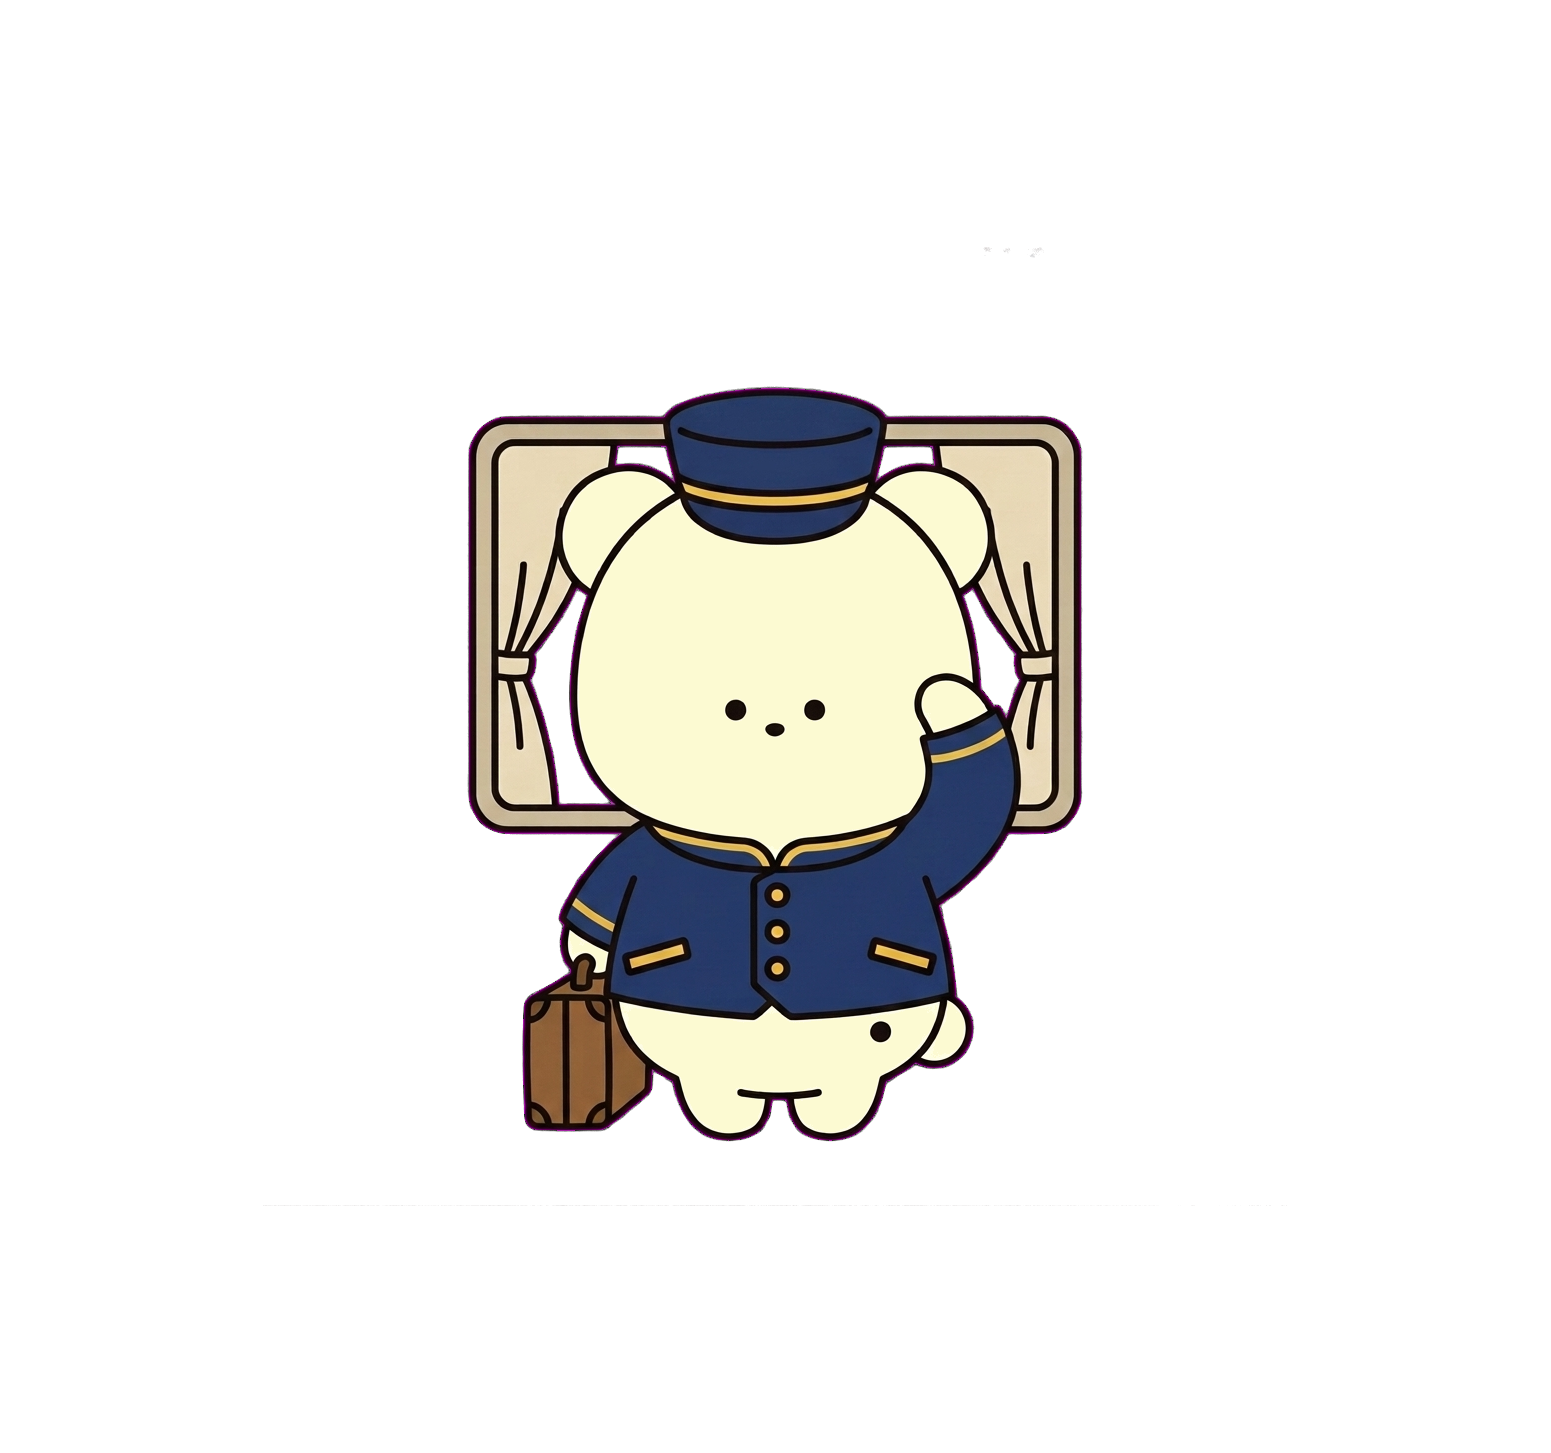
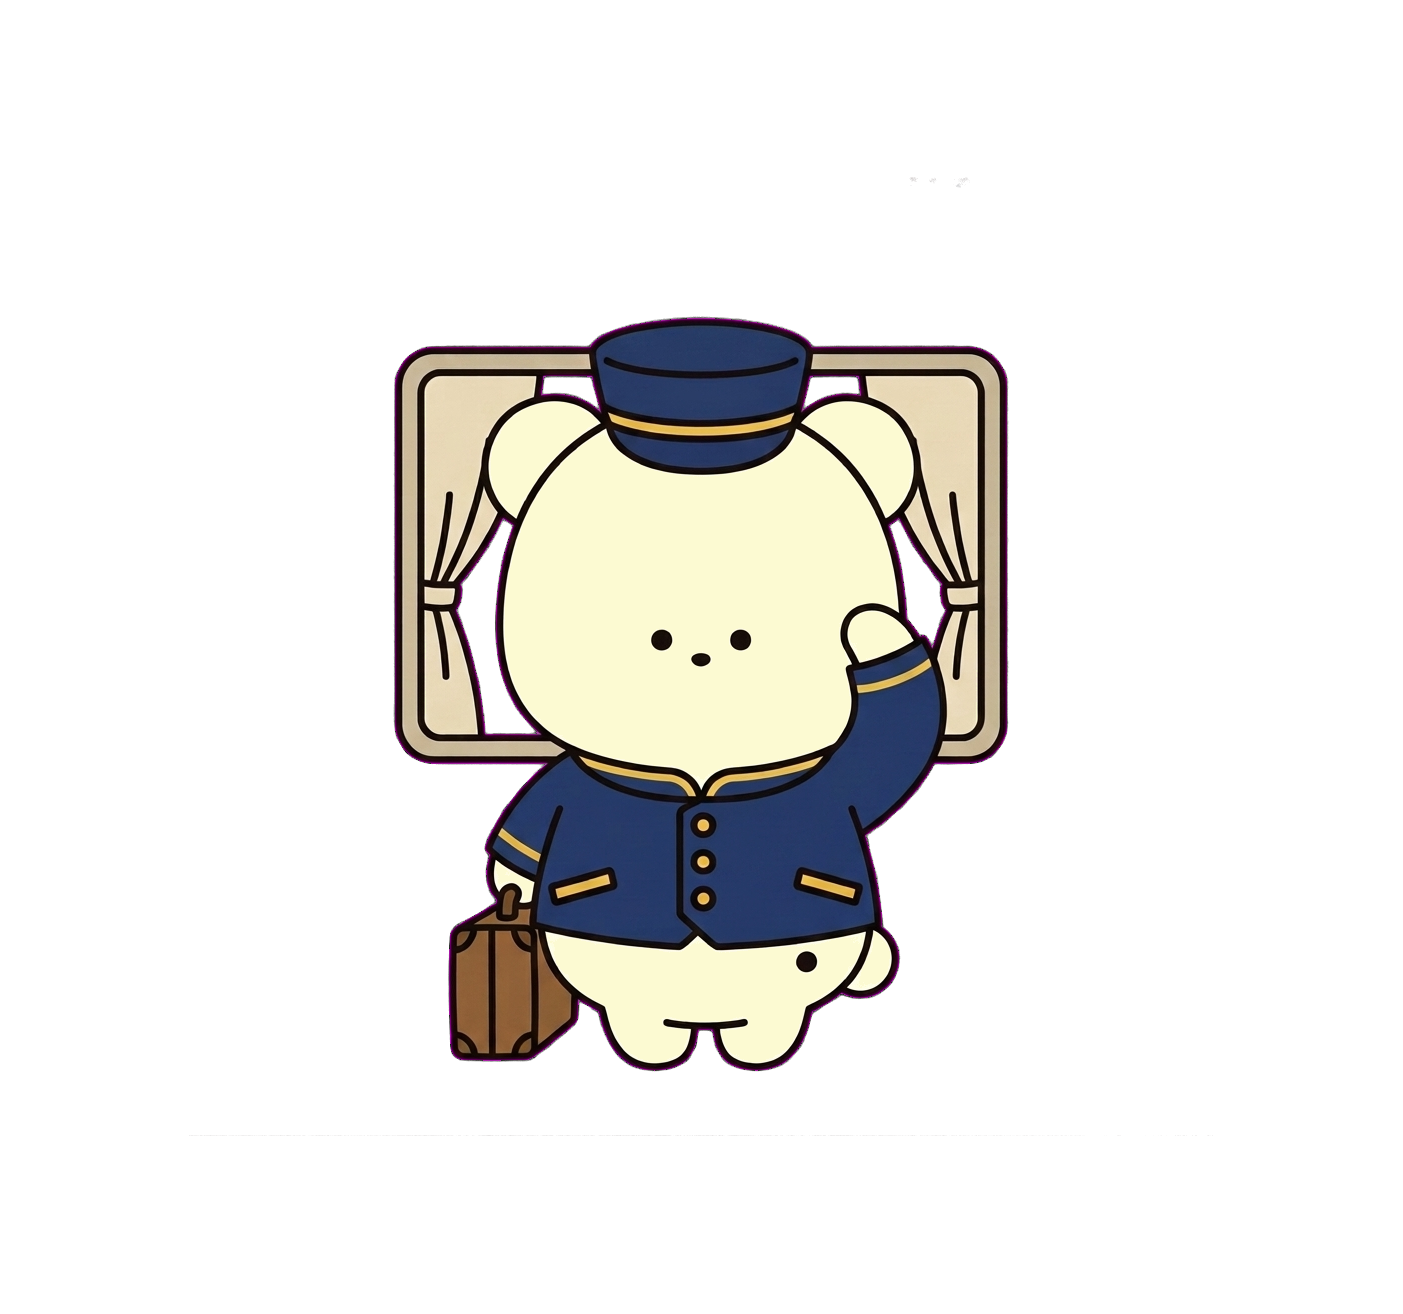
fix(vanished-jobs-archive): ひとことを1行固定に / 052・063を拡大 / 104・105を描き直し
- ひとこと: 字間を詰めて1行に収める（詰めきれない分だけ文字を縮小。英語の
  長文など縮めすぎになる場合は従来どおり折り返す）。022・053の2行化を解消。
- 052 プルマンポーター / 063 忍者: 絵はそのままに透明キャンバスの余白を詰め、
  カード上の見た目を1回り大きく（content比 0.66->0.73 / 0.64->0.71）。
- 104 羅宇屋 / 105 三助: 頭が下ぶくれの丸顔になっていたため、114 ガソリンガールを
  基準参照にして描き直し（角丸四角の頭・フラット調・#FCFAD2）。サムネ(t/)も再生成。

Changed region(s): [[0.2758, 0.2184, 0.7356, 0.8113], [0.521, 0.468, 0.5517, 0.4992], [0.4597, 0.468, 0.4904, 0.4992]]

diff --git a/vanished-jobs-archive/src/components/JobCard.tsx b/vanished-jobs-archive/src/components/JobCard.tsx
@@ -38,6 +38,12 @@ const OVERSIZED = new Set<string>([]);
 /** 画像ごとの位置微調整（絵柄がカード中央に来るように） */
 const NUDGE: Record<string, string> = {};
 
+/** ひとこと（カード新デザイン）の1行おさめ設定。単位は cqw / em */
+const QUOTE_BASE = 4.8; // 基準の文字サイズ
+const QUOTE_MAX_W = 84; // カード内で使える幅
+const QUOTE_MIN_TRACK = -0.05; // 字間はここまでしか詰めない
+const QUOTE_MIN_SIZE = 4.0; // これ以上小さくするくらいなら折り返す
+
 /** 全角=1・半角=0.5 で実効文字数を数える（長い名前の縮小率計算用） */
 function effLen(s: string) {
   let n = 0;
@@ -161,6 +167,19 @@ function NewCard({
   const subSize = bigSize * 0.6;
   const tildeSize = bigSize * 0.72;
 
+  // ひとことは1行に収める。まず字間を詰め、詰めきれない分だけ文字を縮める。
+  // それでも小さくなりすぎる場合（英語の長い文など）は今まで通り折り返す。
+  const quoteText = `「${quote}」`;
+  const quoteLen = effLen(quoteText);
+  const quoteRaw = quoteLen * QUOTE_BASE;
+  let quoteTrack = 0; // 字間(em)
+  let quoteSize = QUOTE_BASE;
+  if (quoteRaw > QUOTE_MAX_W) {
+    quoteTrack = Math.max(QUOTE_MIN_TRACK, QUOTE_MAX_W / quoteRaw - 1);
+    quoteSize = QUOTE_MAX_W / (quoteLen * (1 + quoteTrack));
+  }
+  const quoteOneLine = quoteSize >= QUOTE_MIN_SIZE;
+
   // ステータス別の締め文言
   const closing = en
     ? {
@@ -222,8 +241,16 @@ function NewCard({
         </p>
 
         {/* ひとこと */}
-        <p className="mt-[2.8cqw] translate-y-[1.5cqw] text-center text-[4.8cqw] leading-snug opacity-90">
-          「{quote}」
+        <p
+          className={`mt-[2.8cqw] translate-y-[1.5cqw] text-center leading-snug opacity-90 ${
+            quoteOneLine ? "whitespace-nowrap" : ""
+          }`}
+          style={{
+            fontSize: `${quoteOneLine ? quoteSize : QUOTE_BASE}cqw`,
+            letterSpacing: quoteOneLine ? `${quoteTrack}em` : undefined,
+          }}
+        >
+          {quoteText}
         </p>
 
         {/* イラスト */}
